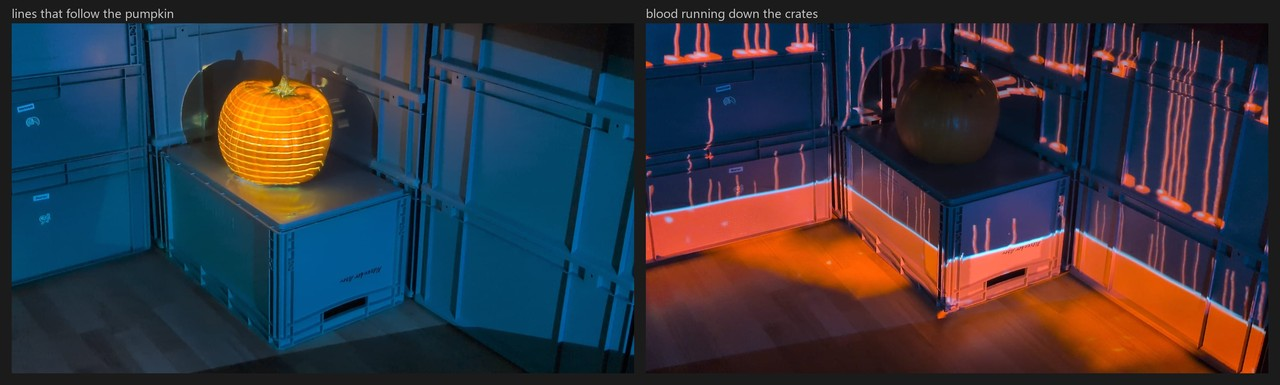
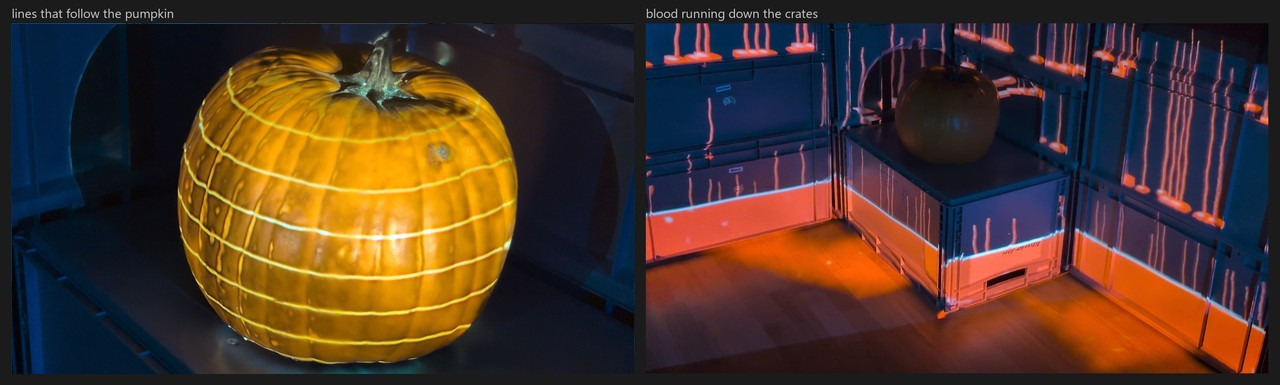
readme: phone photos of the show, the library montage dropped
The lantern and the lines on the pumpkin are sharper photos now. The scan
picture keeps projector A's stripes and adds a grid on every face found.
The six library previews leave the README; each stays in library/README.md.

generated with Claude Code

diff --git a/tools/gallery.py b/tools/gallery.py
@@ -8,7 +8,6 @@
   and beat strips are full);
 - assets/gallery/relief.jpg: the projection-onto-objects example's camera photo of the relief
   beside the picture penumbra lights it with;
-- assets/gallery/library.jpg: six of the content library's previews;
 - assets/gallery/palettes.png: the built-in palettes and colormaps.
 
 The photos in assets/photos/ come from a real setup, not from this script.
@@ -64,11 +63,6 @@ ARRANGE_LABELS = ("before: as the nodes were first placed", "after: one press of
 # The relief picture: the example, the node shot, seconds of show time, and the part of the
 # camera photo that holds the relief (left, top, right, bottom in the photo's pixels).
 RELIEF = (EXAMPLES / "projection-onto-objects", "/view", 20, (500, 0, 920, 480))
-
-# The library montage: the components shown, in reading order, and the columns.
-LIBRARY = ROOT / "library"
-LIBRARY_PICKS = ["scan_labels", "breathe", "edges", "lantern", "candle", "water"]
-LIBRARY_COLUMNS = 3
 
 # The meters animation: size, frames, frames per second, seconds before the first frame (for
 # the tempo to lock on).
@@ -310,24 +304,6 @@ def relief(work: Path) -> None:
     print("relief: assets/gallery/relief.jpg")
 
 
-def library(work: Path) -> None:
-    font = label_font(26)
-    images = [Image.open(LIBRARY / name / "preview.png").convert("RGB") for name in LIBRARY_PICKS]
-    width, height = images[0].size
-    label, gap = 44, 16
-    rows = -(-len(images) // LIBRARY_COLUMNS)
-    sheet = Image.new("RGB", (LIBRARY_COLUMNS * (width + gap) + gap, rows * (height + label + gap) + gap),
-                      (27, 27, 27))
-    draw = ImageDraw.Draw(sheet)
-    for i, (image, name) in enumerate(zip(images, LIBRARY_PICKS)):
-        x = gap + (i % LIBRARY_COLUMNS) * (width + gap)
-        y = gap + (i // LIBRARY_COLUMNS) * (height + label + gap)
-        draw.text((x, y + 4), name, fill=(200, 200, 200), font=font)
-        sheet.paste(image.resize((width, height)), (x, y + label))
-    save_jpg(sheet, OUT / "library.jpg")
-    print("library: assets/gallery/library.jpg")
-
-
 def palettes(work: Path) -> None:
     replies = run([call("palette.list")], work, "palettes")
     line = next(line for line in replies.splitlines() if line.startswith("palette.list:"))
@@ -355,7 +331,7 @@ def palettes(work: Path) -> None:
 def main() -> int:
     jobs = {entry[0]: (lambda work, entry=entry: showcase(*entry, work)) for entry in SHOWCASE}
     jobs.update({"window": window, "arrange": arrange, "audio-meters": meters, "relief": relief,
-                 "library": library, "palettes": palettes})
+                 "palettes": palettes})
     wanted = sys.argv[1:] or list(jobs)
     unknown = [name for name in wanted if name not in jobs]
     if unknown:

diff --git a/README.md b/README.md
@@ -159,20 +159,18 @@ every object, with straight borders where the faces have them. `scan.regions` gr
 into regions, one per crate front, side or lid, and switches the floor off. Here a corner of
 crates with a pumpkin, lit by two projectors:
 
-![Four pictures of the same corner of crates with a pumpkin. Top left: the test patterns of both projectors, blue and orange grids and circles. Top right: vertical stripes from one projector. Bottom left: the regions found, each crate face a colour, the pumpkin white, the floor striped grey. Bottom right: the crates lit with a colour per region](assets/photos/scan.jpg)
+![Two photos of the same corner of crates with a pumpkin. Left: vertical stripes from one projector, bent by the pumpkin. Right: a cyan grid projected on every crate face, each following its own face, and an orange grid wrapped around the pumpkin](assets/photos/scan.jpg)
 
 Without projectors, `scan.synthetic` ray casts a made-up scene of the same kind, for trying
 the chain at the desk.
 
 The [content library](library/README.md) has effects that fit any scanned scene: colours per
-region, outlines, light from inside an object, a carved face, water. Its previews show the
-same crates and pumpkin:
-
-![Six effects on the same scanned crates: colours per face, palette colours, glowing outlines, a carved pumpkin face, candle light around the pumpkin, water in a crate](assets/gallery/library.jpg)
+region, outlines, light from inside an object, a carved face, water. Each has a preview on the
+same crates and pumpkin.
 
 What a show on such a scan looks like in the room:
 
-![Left: glowing lines wrapped around the pumpkin, the crates in dim blue. Right: blood running down the crate fronts and pooling in red along their feet](assets/photos/show.jpg)
+![Left: glowing lines wrapped around the pumpkin, seen close up. Right: blood running down the crate fronts and pooling in red along their feet](assets/photos/show.jpg)
 
 The whole chain is in [Scanning](docs/scanning.md). The repository also holds a
 [Claude Code skill](.claude/skills/projection-mapping/SKILL.md) that walks a session through
